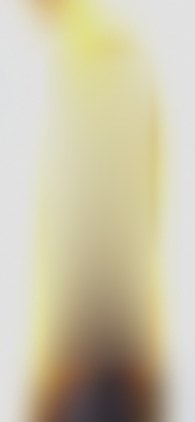
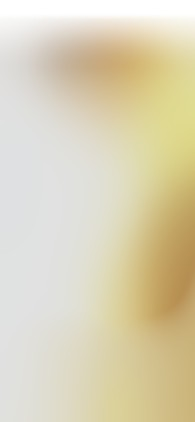
Montants compacts (13,8K) avec mini courbes de données réelles, nouveau fond (blanc en haut puis dégradé jaune et orangé de la référence), barre d'état blanche
Claude-Session: https://claude.ai/code/session_01RFmGnU1r94LApfFeVush8f

diff --git a/app.js b/app.js
@@ -7,9 +7,9 @@
   try{ var pr=JSON.parse(localStorage.getItem('banque-prefs')||'{}'); if(pr.theme) S.theme=pr.theme; if(pr.view3) S.view=pr.view3; if(pr.margin!=null) S.margin=+pr.margin; }catch(e){}
   function savePrefs(){ try{ localStorage.setItem('banque-prefs',JSON.stringify({theme:S.theme,hide:S.hide,view3:S.view,margin:S.margin})); }catch(e){} }
   /* barre d'état du téléphone : de la couleur du fond, claire ou sombre selon le thème, au lieu d'une bande noire */
-  function barColor(){ var m=document.querySelector('meta[name="theme-color"]'); if(m) m.setAttribute('content',S.theme==='dark'?'#605D57':'#DFDABE'); }
+  function barColor(){ var m=document.querySelector('meta[name="theme-color"]'); if(m) m.setAttribute('content',S.theme==='dark'?'#6D6C70':'#FFFFFF'); }
   /* ---------- design verre : fond ambre, maillage de la carte du haut et grain, calculés une seule fois puis gardés ---------- */
-  (function(){ var root=document.documentElement, K='banque-design-v2', C=null;
+  (function(){ var root=document.documentElement, K='banque-design-v3', C=null;
     try{ C=JSON.parse(localStorage.getItem(K)||'null'); }catch(e){}
     function put(c){ root.style.setProperty('--scene',c.scene); root.style.setProperty('--hero',c.hero); root.style.setProperty('--noise',c.noise); }
     if(C&&C.scene&&C.hero&&C.noise){ put(C); return; }
@@ -27,7 +27,7 @@
       var i; /* grain fin */
       var nc=document.createElement('canvas'); nc.width=nc.height=96; var nx=nc.getContext('2d'), nd=nx.createImageData(96,96), v; for(i=0;i<nd.data.length;i+=4){ v=Math.random()<.5?255:0; nd.data[i]=nd.data[i+1]=nd.data[i+2]=v; nd.data[i+3]=Math.round(Math.random()*11); }
       nx.putImageData(nd,0,0); var noise='linear-gradient(transparent,transparent),url('+nc.toDataURL('image/png')+') 0 0/96px 96px';
-      C={scene:'url(bg.jpg)',hero:hero,noise:noise}; put(C); try{ localStorage.setItem(K,JSON.stringify(C)); }catch(e){}
+      C={scene:'url(bg.jpg?v=3)',hero:hero,noise:noise}; put(C); try{ localStorage.setItem(K,JSON.stringify(C)); }catch(e){}
     }catch(e){}
   })();
   document.documentElement.setAttribute('data-theme',S.theme); barColor();
@@ -359,15 +359,23 @@
       dep=(gm==='solde'||gm==='bal'?'':'<div><span class="m-sub">'+esc(ttl)+'</span><div style="font-size:26px;font-weight:300">'+eur(cur0)+'</div></div>')+
         '<div class="kcmp m-kcmp">'+(dp!=null?'<div><div class="m-sub">Mois dernier</div><div class="m-kn">'+eur(prv)+'</div>'+kchip(dp,prv?dp/Math.abs(prv)*100:null,goodUp)+'</div>':'')+(da!=null?'<div><div class="m-sub">Moyenne</div><div class="m-kn">'+eur(avg)+'</div>'+kchip(da,avg?da/Math.abs(avg)*100:null,goodUp)+'</div>':'')+'</div>'; }
     KCMP=dep;
-    var BR=''; (function(){ var Pm=per(), key=Pm.isYear?D.today.month:Pm.key, cur=key===D.today.month, o=SA.filter(function(x){return x.k===key})[0], v=cur?(D.proj.revEnd-D.proj.depEnd):(o?o.rev-o.dep:null); if(v==null||isNaN(v)) return;
-      var m=MOIS_L[+key.slice(5,7)-1]; BR='<div class="hbal"><span class="bl1"><span>Balance '+(/^[aeiouhéàâêîôû]/.test(m)?'d’':'de ')+m+(cur?'':' '+key.slice(0,4))+'</span><span class="sm">'+(cur?'projection de fin de mois':'balance finale')+'</span></span><b class="bv '+(v<0?'neg':'pos')+'">'+(v<0?'−':'+')+eur(Math.abs(v))+'</b></div>'; })();
-    var tot2=lv?D.solde+epTot+(lv.enc||0):null, epV=lv?epTot:sum(SA.slice(-12).map(function(x){return x.sav||0})), N2=function(v){ return eur(v); };
+    var BR='', BRV=null; (function(){ var Pm=per(), key=Pm.isYear?D.today.month:Pm.key, cur=key===D.today.month, o=SA.filter(function(x){return x.k===key})[0], v=cur?(D.proj.revEnd-D.proj.depEnd):(o?o.rev-o.dep:null); if(v==null||isNaN(v)) return;
+      BRV=v; var m=MOIS_L[+key.slice(5,7)-1]; BR='<div class="hbal"><span class="bl1"><span>Balance '+(/^[aeiouhéàâêîôû]/.test(m)?'d’':'de ')+m+(cur?'':' '+key.slice(0,4))+'</span><span class="sm">'+(cur?'projection de fin de mois':'balance finale')+'</span></span><b class="bv '+(v<0?'neg':'pos')+'">'+(v<0?'−':'+')+eur(Math.abs(v))+'</b></div>'; })();
+    var tot2=lv?D.solde+epTot+(lv.enc||0):null, epV=lv?epTot:sum(SA.slice(-12).map(function(x){return x.sav||0})), N2=function(v){ return kc(v); };
+    var nM=Math.min(7,SA.length), epS=[], acc=epTot, ii;
+    for(ii=SA.length-1;ii>=SA.length-nM;ii--){ epS.unshift(acc); acc-=(SA[ii].sav||0); }
+    var totS=SA.slice(-nM).map(function(x,j){ return (x.bal||0)+epS[j]; }); if(totS.length&&tot2!=null) totS[totS.length-1]=tot2;
+    var balS=SA.slice(-nM).map(function(x){ return x.rev-x.dep; }); if(balS.length&&BRV!=null) balS[balS.length-1]=BRV;
+    var dM=(D.daily&&D.daily[D.today.month]&&D.daily[D.today.month].b)||[], dS=[], lastB=null, di;
+    for(di=0;di<Math.min(DAY,dM.length);di++){ if(dM[di]!=null) lastB=dM[di]; dS.push(lastB); }
+    var heroDots='<div class="m-dots" aria-hidden="true"><i></i><i class="m"></i><i></i><i></i><i class="l"></i></div>';
     var hero='<div class="m-glw hw"><div class="m-tint"><div class="row"><span class="m-ic">'+msvg('card')+'</span>'+(L?'<button class="m-go" type="button" data-act="landtoggle" aria-expanded="'+open+'" aria-label="Projection de fin de mois">'+msvg('arrow')+'</button>':'')+'</div>'+
-      '<div><div class="m-lab">Solde '+(D.soldeEstime?'estimé':'aujourd’hui')+'</div><div class="m-foot"><div class="m-big" id="bal" data-v="'+D.solde+'">'+eur(D.solde)+'</div><div class="m-dots" aria-hidden="true"><i></i><i class="m"></i><i></i><i></i><i class="l"></i></div></div></div></div></div>';
-    var tTot=tot2!=null?'<div class="m-tile"><div class="m-head"><span class="m-ic">'+msvg('search')+'</span><span class="m-t">Total</span></div><div class="m-v"><span class="m-n">'+N2(tot2)+'</span><svg class="m-mini" viewBox="0 0 44 22" aria-hidden="true"><g stroke="none"><circle cx="4" cy="16" r="1.6"/><circle cx="10" cy="9" r="1.6"/><circle cx="16" cy="16" r="1.6"/><circle cx="22" cy="12" r="2.4"/><circle cx="28" cy="16" r="1.6"/><circle cx="34" cy="7" r="1.6"/><circle cx="40" cy="16" r="1.6"/></g></svg></div></div>':'';
-    var tEp='<button class="m-tile" type="button" data-act="goep"><div class="m-head"><span class="m-ic">'+msvg('chart')+'</span><span class="m-t">'+(lv?'Épargne<br>totale':'Mis de côté')+'</span></div><div class="m-v"><span class="m-n">'+N2(epV)+'</span><svg class="m-mini" viewBox="0 0 44 22" aria-hidden="true"><path d="M2 14c3-8 5-8 8 0s5 8 8 0 5-8 8 0 5 8 8 0 5-8 8 0" stroke-dasharray="2 3"/></svg></div></button>';
+      '<div><div class="m-lab">Solde '+(D.soldeEstime?'estimé':'aujourd’hui')+'</div><div class="m-foot"><div class="m-big" id="bal" data-v="'+D.solde+'" aria-label="'+esc(eur(D.solde))+'">'+kc(D.solde)+'</div>'+(dS.length>1?spark(dS,132,46,'m-hspark'):heroDots)+'</div></div></div></div>';
+    var decorTot='<svg class="m-mini" viewBox="0 0 44 22" aria-hidden="true"><g stroke="none"><circle cx="4" cy="16" r="1.6"/><circle cx="10" cy="9" r="1.6"/><circle cx="16" cy="16" r="1.6"/><circle cx="22" cy="12" r="2.4"/><circle cx="28" cy="16" r="1.6"/><circle cx="34" cy="7" r="1.6"/><circle cx="40" cy="16" r="1.6"/></g></svg>';
+    var tTot=tot2!=null?'<div class="m-tile"><div class="m-head"><span class="m-ic">'+msvg('search')+'</span><span class="m-t">Total</span></div><div class="m-v"><span class="m-n" aria-label="'+esc(eur(tot2))+'">'+N2(tot2)+'</span>'+(spark(totS,66,26)||decorTot)+'</div></div>':'';
+    var tEp='<button class="m-tile" type="button" data-act="goep"><div class="m-head"><span class="m-ic">'+msvg('chart')+'</span><span class="m-t">'+(lv?'Épargne<br>totale':'Mis de côté')+'</span></div><div class="m-v"><span class="m-n" aria-label="'+esc(eur(epV))+'">'+N2(epV)+'</span>'+(spark(epS,66,26)||'<svg class="m-mini" viewBox="0 0 44 22" aria-hidden="true"><path d="M2 14c3-8 5-8 8 0s5 8 8 0 5-8 8 0 5 8 8 0 5-8 8 0" stroke-dasharray="2 3"/></svg>')+'</div></button>';
     var bvv=null, blab=null; if(BR){ bvv=BR.match(/<b class="bv (neg|pos)">([^<]*)<\/b>/); blab=BR.match(/<span class="bl1"><span>([^<]*)<\/span><span class="sm">([^<]*)<\/span>/); }
-    var tBal=(BR&&bvv&&blab)?'<div class="m-tile m-span2"><div class="m-head"><span class="m-ic">'+msvg('trend')+'</span><span class="m-t" style="flex:1">'+blab[1]+'<br>'+blab[2]+'</span><button class="m-go dark" type="button" data-gr="bal" aria-label="Voir le graphique de balance">'+msvg('arrow')+'</button></div><div class="m-v"><span class="m-n '+(bvv[1]==='neg'?'m-neg':'m-pos')+'">'+bvv[2]+'</span><span class="m-dotsline" aria-hidden="true"><i class="on"></i><i class="on"></i><i class="on"></i><i class="on"></i><i class="on"></i><i class="on"></i><i></i><i></i></span></div></div>':'';
+    var tBal=(BR&&bvv&&blab)?'<div class="m-tile m-span2"><div class="m-head"><span class="m-ic">'+msvg('trend')+'</span><span class="m-t" style="flex:1">'+blab[1]+'<br>'+blab[2]+'</span><button class="m-go dark" type="button" data-gr="bal" aria-label="Voir le graphique de balance">'+msvg('arrow')+'</button></div><div class="m-v"><span class="m-n '+(bvv[1]==='neg'?'m-neg':'m-pos')+'" aria-label="'+esc(bvv[2])+'">'+(BRV!=null?(BRV<0?'':'+')+kc(BRV):bvv[2])+'</span>'+(spark(balS,92,28)||'')+'<span class="m-dotsline" aria-hidden="true"><i class="on"></i><i class="on"></i><i class="on"></i><i class="on"></i><i class="on"></i><i class="on"></i><i></i><i></i></span></div></div>':'';
     var monName=MOIS_L[+D.today.month.slice(5,7)-1];
     return syncHead()+mtop(monName.charAt(0).toUpperCase()+monName.slice(1),{tools:mtools()})+syncNote()+hero+'<div class="m-grid seule">'+tTot+tEp+tBal+'</div>'+(proj?'<p class="m-cap">'+proj+'</p>':'')+(open?'<div class="m-card kdetail">'+landDetail(L)+'</div>':'')+freshLine()+(sub?'<div class="note">'+esc(sub)+'</div>':'')+(RNG()?'':chartInner()); }
   function homeScreen(){
@@ -520,6 +528,13 @@
     var list=S.f.sous? c.subs.filter(function(s){return s.n===S.f.sous}) : c.subs;
     return '<button class="back" data-act="clearposte" style="min-height:36px">'+ico(I.back)+esc(c.n)+' · retirer le filtre</button>'+compactCard(list,true);
   }
+  /* montant compact : 13877 devient 13,8K (centaines tronquées) ; en dessous de 1 000, le montant entier */
+  function kc(v){ if(S.hide) return '••••'; var n=Math.abs(v), sg=v<0?'−':''; if(n>=1000){ var t=Math.floor(n/100)/10; return sg+String(t).replace('.',',')+'K'; } return sg+Math.round(n); }
+  /* mini courbe d'une série (valeurs nulles ignorées) : trait fin, dernier point plein */
+  function spark(vals,w,h,cls){ var v=vals.filter(function(x){return x!=null&&!isNaN(x)}); if(v.length<2) return ''; var mn=Math.min.apply(null,v), mx=Math.max.apply(null,v), sp=mx-mn||1, pad=3, n=vals.length, pts=[], i, x, y;
+    for(i=0;i<n;i++){ if(vals[i]==null||isNaN(vals[i])) continue; x=pad+(w-2*pad)*i/(n-1); y=h-pad-(h-2*pad)*(vals[i]-mn)/sp; pts.push([x,y]); }
+    var d='M'+pts.map(function(p){return p[0].toFixed(1)+' '+p[1].toFixed(1)}).join('L'), l=pts[pts.length-1];
+    return '<svg class="'+(cls||'m-mini')+'" viewBox="0 0 '+w+' '+h+'" aria-hidden="true" style="width:'+w+'px;height:'+h+'px"><path d="'+d+'"/><circle cx="'+l[0].toFixed(1)+'" cy="'+l[1].toFixed(1)+'" r="2.6"/></svg>'; }
   /* montant en grand : partie entière puis centimes en petit, comme dans la maquette */
   function bigEur(v){ var t=eur(v,true), i=t.lastIndexOf(','); return i>0&&!S.hide?t.slice(0,i)+'<small>'+t.slice(i)+'</small>':t; }
   function opIcon(cat,amt){ var c=String(cat||'').toLowerCase(); if(amt>0) return 'in'; if(/course|aliment/.test(c)) return 'bag'; if(/loisir|sortie/.test(c)) return 'game'; if(/imp[oô]t|taxe/.test(c)) return 'gov'; if(/logement|loyer/.test(c)) return 'home'; if(/abonn|télécom|telecom/.test(c)) return 'repeat'; if(/sant[eé]/.test(c)) return 'flask'; if(/[eé]nergie|[eé]lectr/.test(c)) return 'bolt'; if(/mouvement|virement|épargne|epargne/.test(c)) return 'up'; return 'card'; }
@@ -968,7 +983,7 @@
     app.querySelectorAll('.hscroll').forEach(function(h){ h.scrollLeft=(S.hsKey===h.dataset.hs&&S.hsPos!=null)?S.hsPos:h.scrollWidth; });
     var fill=function(){ app.querySelectorAll('.bar i,.strack i,.pvis i,.pbar i').forEach(function(el){ if(!(fx&&!reduce)) el.style.transition='none'; el.style.width=el.dataset.w+'%'; }); };
     if(fx&&!reduce) requestAnimationFrame(function(){requestAnimationFrame(fill)}); else fill();
-    var b=document.getElementById('bal'); if(b&&D&&!reduce&&!S.hide&&S.first){ var t0=performance.now(); (function tick(n){var k=Math.min((n-t0)/900,1),e=1-Math.pow(1-k,3);b.textContent=eur(D.solde*e);if(k<1)requestAnimationFrame(tick)})(t0); }
+    var b=document.getElementById('bal'); if(b&&D&&!reduce&&!S.hide&&S.first){ var t0=performance.now(); (function tick(n){var k=Math.min((n-t0)/900,1),e=1-Math.pow(1-k,3);b.textContent=kc(D.solde*e);if(k<1)requestAnimationFrame(tick)})(t0); }
     if(D) S.first=false;
     paintPanel();
   }

diff --git a/design.css b/design.css
@@ -317,3 +317,12 @@ html body .ins-chip,html body .ins-pill,html body .badge,html body .badge b,html
 .m-sub{margin:0;font-size:13px;color:var(--ink-3)}
 html body .fchip{border-radius:999px!important;font:inherit;font-size:14px;padding:8px 14px;min-height:40px;border:1px solid var(--soft2)!important;background:transparent!important;color:var(--ink)!important;box-shadow:none!important;font-weight:400!important}
 html body .fchip[aria-pressed="true"]{background:var(--ink)!important;color:var(--card)!important;border-color:transparent!important}
+/* montants compacts et mini courbes de données réelles */
+.m-v svg.m-mini{width:auto;height:26px;margin-bottom:0;opacity:.85;stroke-width:1.3}
+.m-v svg.m-mini circle{fill:currentColor;stroke:none}
+.m-hspark{flex:none;fill:none;stroke:#fff;stroke-width:1.4;stroke-linecap:round;stroke-linejoin:round;opacity:.95;margin-bottom:6px}
+.m-hspark circle{fill:#fff;stroke:none}
+.m-big{font-size:56px}
+.m-tile.m-span2 .m-v{gap:14px}
+.m-tile.m-span2 .m-v .m-mini{margin-left:auto}
+.m-tile.m-span2 .m-dotsline{display:none}

diff --git a/index.html b/index.html
@@ -5,7 +5,7 @@
 <meta name="viewport" content="width=device-width, initial-scale=1, viewport-fit=cover">
 <meta name="color-scheme" content="light dark">
 <meta http-equiv="Content-Security-Policy" content="default-src 'self'; script-src 'self' https://accounts.google.com; style-src 'self' 'unsafe-inline' https://fonts.googleapis.com https://accounts.google.com; font-src 'self' https://fonts.gstatic.com; connect-src 'self' https://www.googleapis.com https://sheets.googleapis.com https://accounts.google.com; frame-src https://accounts.google.com; img-src 'self' data:; object-src 'none'; base-uri 'none'; form-action 'none'">
-<meta name="theme-color" content="#DFDABE">
+<meta name="theme-color" content="#FFFFFF">
 <link rel="manifest" href="manifest.webmanifest">
 <link rel="preconnect" href="https://accounts.google.com">
 <link rel="preconnect" href="https://sheets.googleapis.com">

diff --git a/config.js b/config.js
@@ -3,7 +3,7 @@ window.BANQUE_CONFIG = {
   CLIENT_ID: '401450053161-krqm6u6u2pedjtg7ghj9ehmdur7kl2a2.apps.googleusercontent.com',
   SHEET_NAME: 'Banque',          // nom du Google Sheet qui stocke les opérations
   FOLDER_NAME: 'Export banque',  // dossier Drive où sont déposés les exports CSV
-  BUILD: '2026-10-31 · période libre, fond de la capture',
+  BUILD: '2026-10-31 · montants compacts, fond blanc en haut',
   LEP: { solde: 9030, date: '2026-10-28' },   // LEP : alimenté une fois, il ne bouge plus ; les virements suivants vont au Livret A
   TIMEZONE: 'Europe/Paris'
 };

diff --git a/sw.js b/sw.js
@@ -1,4 +1,4 @@
-// build 2026-10-31-periode-libre
+// build 2026-10-31-montants-compacts
 // Cache d'abord (ouverture instantanée), puis mise à jour en arrière-plan pour le prochain lancement.
 var CACHE = 'banque-shell';
 var SHELL = ['./', 'index.html', 'style.css', 'design.css', 'app.js', 'lib.js', 'google.js', 'lock.js', 'config.js', 'manifest.webmanifest', 'icon-192.png', 'fonts/sora-latin.woff2', 'fonts/outfit-latin.woff2', 'bg.jpg'];
